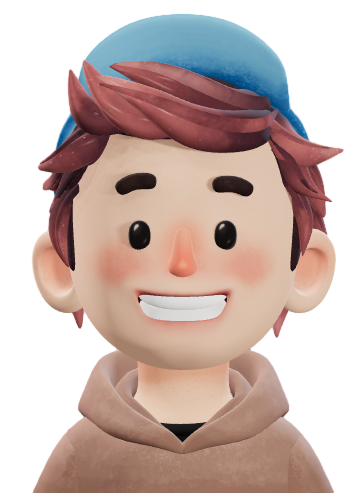
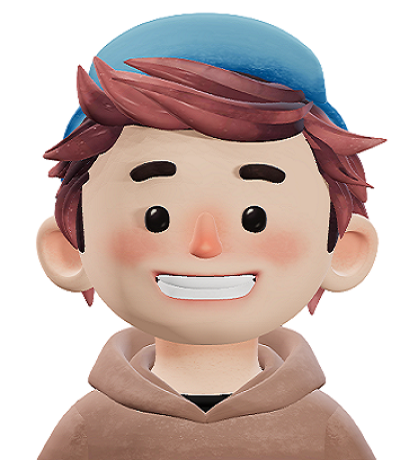
update

diff --git a/posts/函数模板/index.html b/posts/函数模板/index.html
@@ -748,7 +748,7 @@ What is : 所谓“参数范围”，比如原来是int类型，如果变成cons
     <div class="zuozhe">
         
             <div class="datou">
-                <img class="lazyload" src="/images/thumbnail.gif" data-src="/images/author.jpeg" alt="">
+                <img class="lazyload" src="/images/thumbnail.gif" data-src="/images/author.png" alt="">
             </div>
         
         <div class="name-jianjie">

diff --git a/categories/index.html b/categories/index.html
@@ -259,7 +259,7 @@
     <div class="zuozhe">
         
             <div class="datou">
-                <img class="lazyload" src="/images/thumbnail.gif" data-src="/images/author.jpeg" alt="">
+                <img class="lazyload" src="/images/thumbnail.gif" data-src="/images/author.png" alt="">
             </div>
         
         <div class="name-jianjie">

diff --git a/posts/first-post/index.html b/posts/first-post/index.html
@@ -299,7 +299,7 @@
     <div class="zuozhe">
         
             <div class="datou">
-                <img class="lazyload" src="/images/thumbnail.gif" data-src="/images/author.jpeg" alt="">
+                <img class="lazyload" src="/images/thumbnail.gif" data-src="/images/author.png" alt="">
             </div>
         
         <div class="name-jianjie">

diff --git a/posts/index.html b/posts/index.html
@@ -276,7 +276,7 @@
     <div class="zuozhe">
         
             <div class="datou">
-                <img class="lazyload" src="/images/thumbnail.gif" data-src="/images/author.jpeg" alt="">
+                <img class="lazyload" src="/images/thumbnail.gif" data-src="/images/author.png" alt="">
             </div>
         
         <div class="name-jianjie">

diff --git a/series/index.html b/series/index.html
@@ -259,7 +259,7 @@
     <div class="zuozhe">
         
             <div class="datou">
-                <img class="lazyload" src="/images/thumbnail.gif" data-src="/images/author.jpeg" alt="">
+                <img class="lazyload" src="/images/thumbnail.gif" data-src="/images/author.png" alt="">
             </div>
         
         <div class="name-jianjie">

diff --git a/tags/index.html b/tags/index.html
@@ -260,7 +260,7 @@
     <div class="zuozhe">
         
             <div class="datou">
-                <img class="lazyload" src="/images/thumbnail.gif" data-src="/images/author.jpeg" alt="">
+                <img class="lazyload" src="/images/thumbnail.gif" data-src="/images/author.png" alt="">
             </div>
         
         <div class="name-jianjie">
